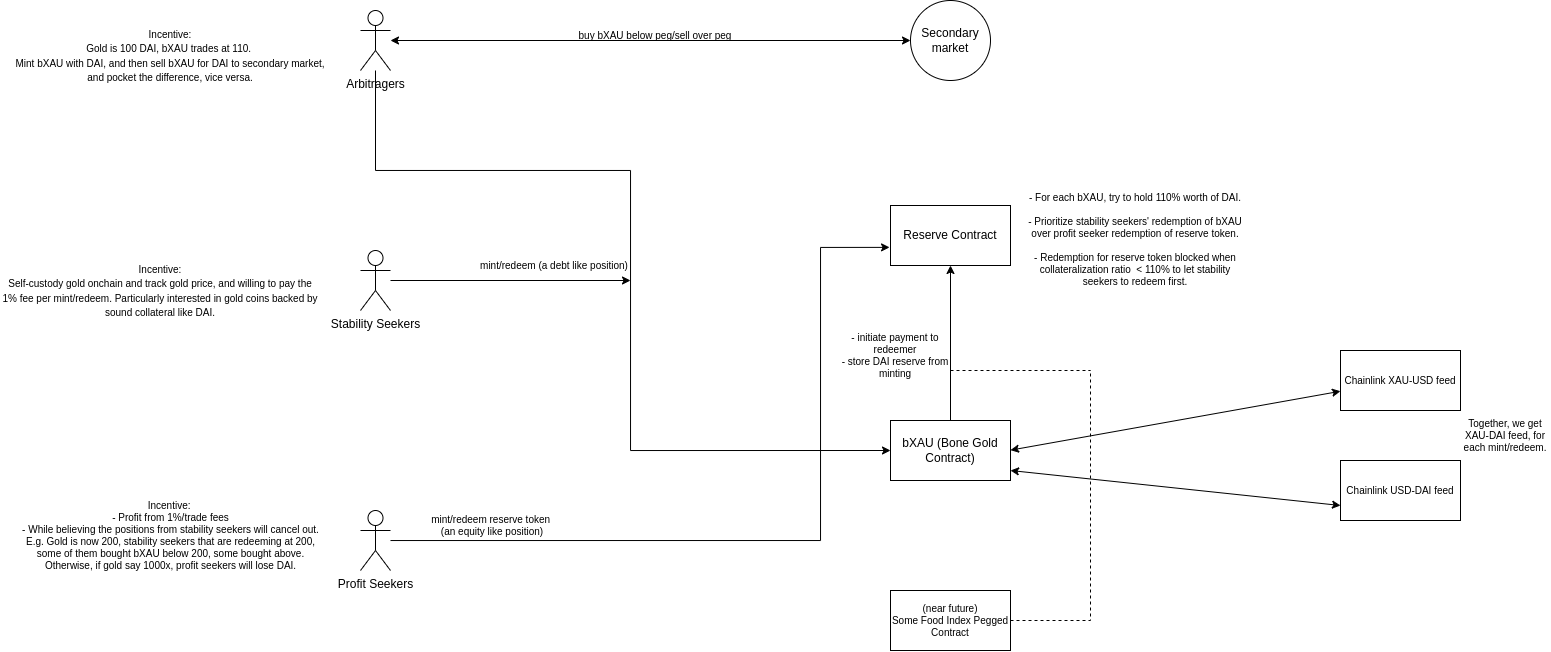
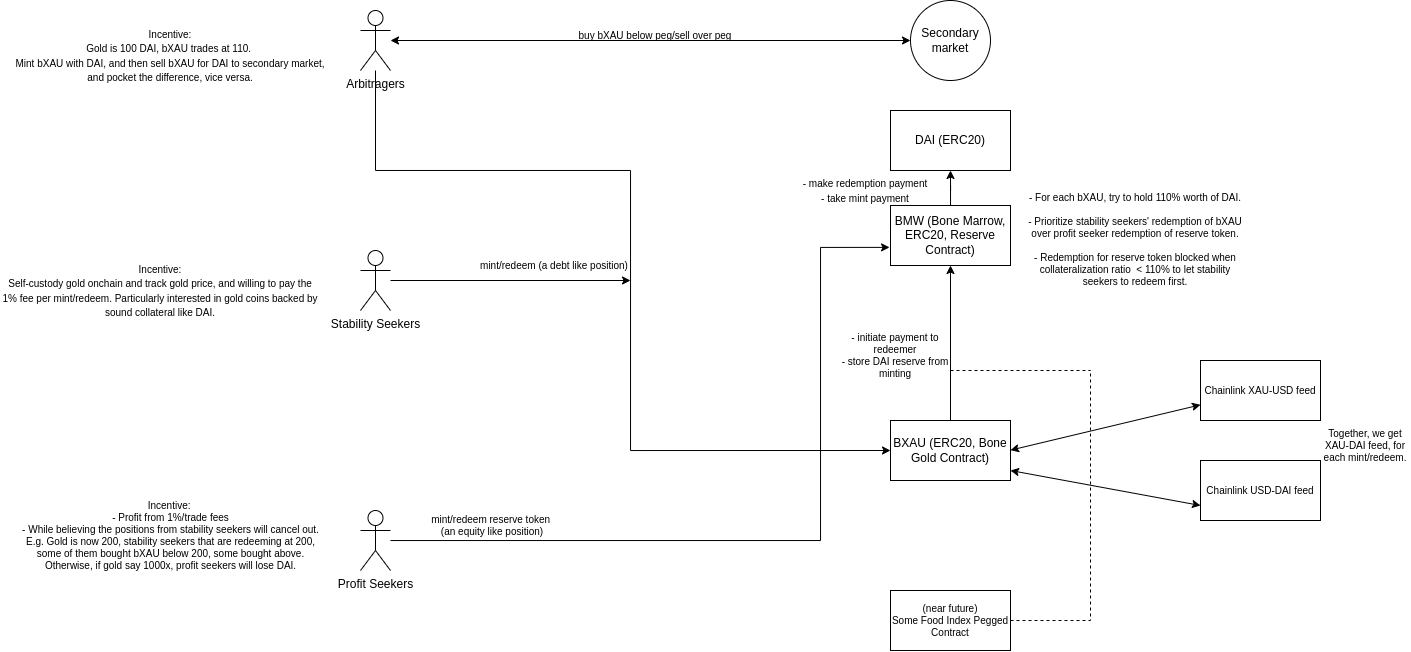
diagram and docs update

diff --git a/docs/index.html b/docs/index.html
@@ -84,6 +84,8 @@ https://etherscan.io/token/0x6b175474e89094c44da98b954eedeac495271d0f
       </figure>
       <h1>Getting Started</h1>
       <pre>
+I am glad this interests you, you can mint gold (BXAU) and reserve tokens (BMW) to try it out:
+
 - Visit faucet for Rinkeby DAI: https://faucet.paradigm.xyz/
 - Mint BMW (the reserve token)	
 - Mint bXAU, take a look at each contract's metrics before and after
